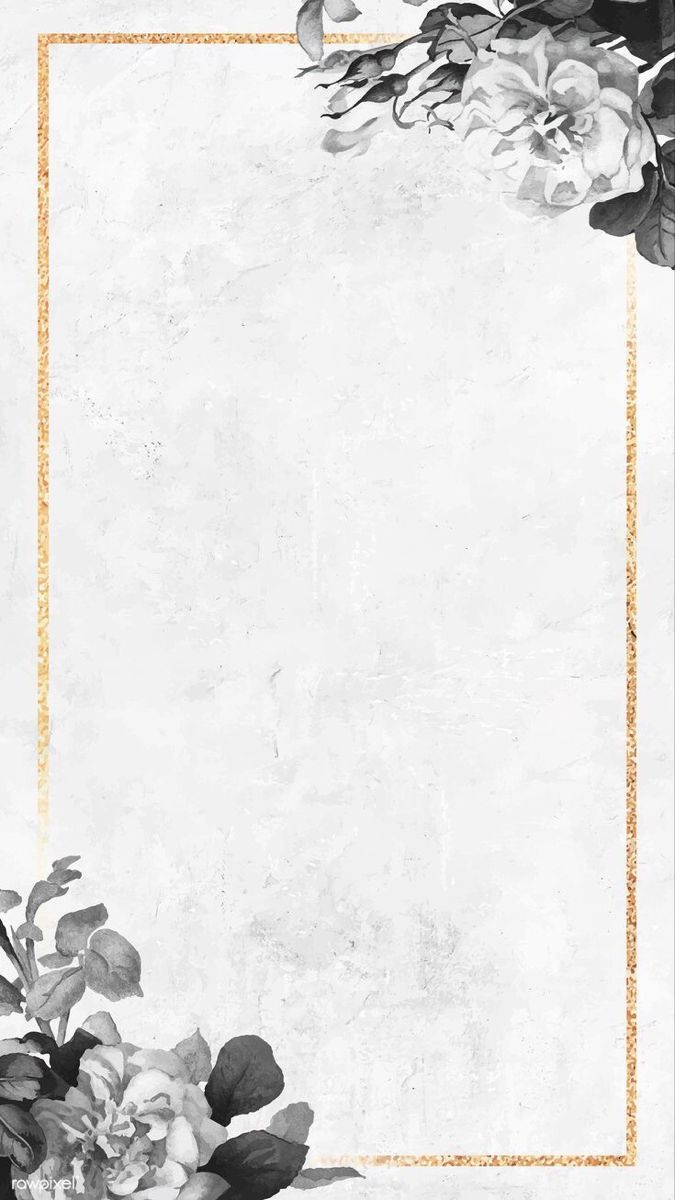
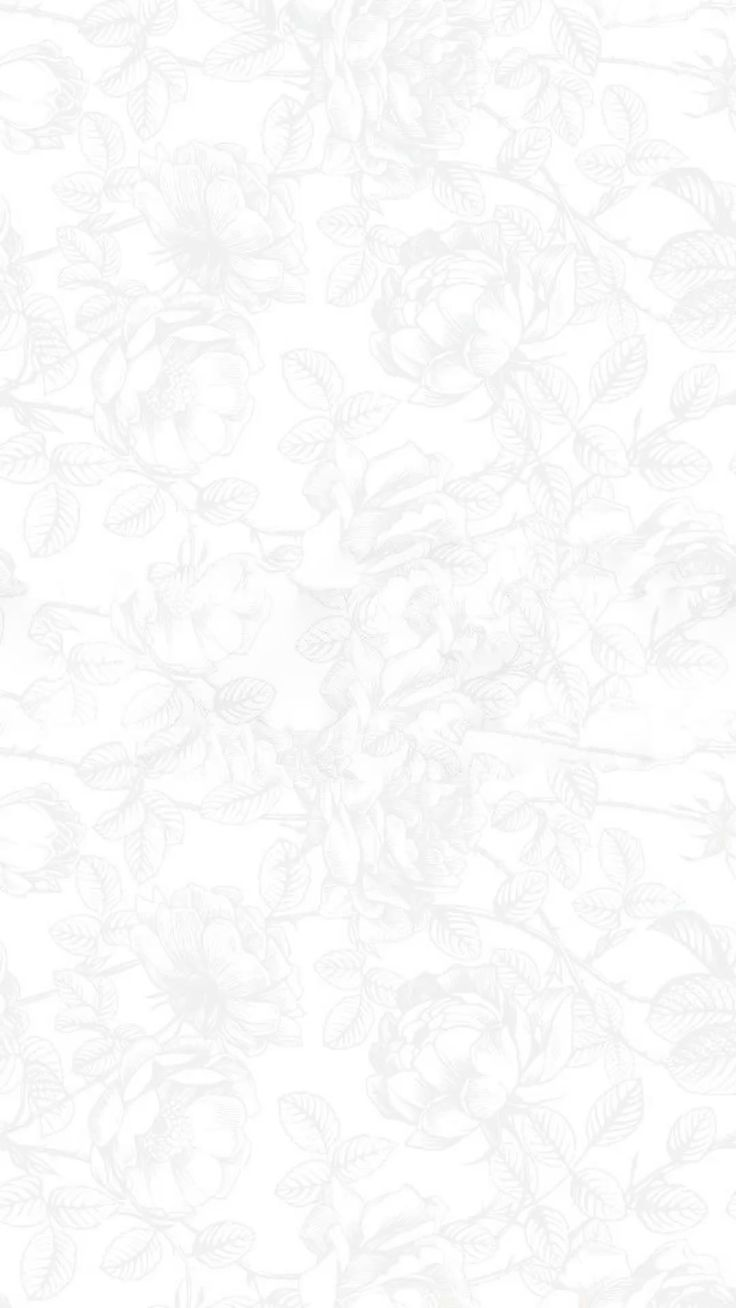
update

diff --git a/templates/basicblack/basicblack.html b/templates/basicblack/basicblack.html
@@ -117,7 +117,7 @@
 .subtitle-top {
     font-size: 0.75rem;
     letter-spacing: 3px;
-    color: #812121;
+    color: #d5c29d;
     text-transform: uppercase;
      text-align: center;
 }
@@ -125,7 +125,7 @@
 .main-title {
       font-family: 'Bilbo Swash Caps', cursive;
     font-size: 2.4rem;
-    color: #812121;
+    color: #d5c29d;
     margin: 10px 0 20px;
      text-align: center;
 }
@@ -482,7 +482,7 @@
     left: 0;
     width: 100%;
     height: 100%;
-    background-image: url("https://file.puredayinvitation.com/templates/basicred/cover.jpg");
+    background-image: url("https://file.puredayinvitation.com/templates/basicblack/cover.jpg");
     background-size: cover;
     background-position: center;
     transition: transform 1s cubic-bezier(0.77, 0, 0.175, 1);
@@ -552,7 +552,7 @@
 }
 
 .guest-label {
-    color: #5a1515;
+    color: #dcbd81;
     font-size: 1.1rem;
     font-family: Andada, serif;
     margin-top: 30px;
@@ -560,7 +560,7 @@
 
 .template-cover-guest-name {
      font-family: Andada, serif;
-    color: #5a1515;
+    color: #dcbd81;
     font-size: 0.9rem;
     letter-spacing: 2px;
     text-transform: uppercase;
@@ -572,21 +572,21 @@
 .template-cover-title {
    font-family: 'Rouge Script', cursive;
     font-size: 3.5rem;
-    color: #5a1515;
+    color: #dcbd81;
     margin: 10px 0;
     font-weight: 300;
     margin-top: 0px;
 }
 
 .event-date {
-    color: #5a1515;
+    color: #dcbd81;
     margin-top: 5px;
     font-family: Andada, serif;
 }
 
 /* --- TOMBOL OPEN --- */
 .cover-open-btn {
-    background-color: #5a1515;
+    background-color: #dcbd81;
     color: #dee6ee;
     border: none;
     padding: 5px 30px;
@@ -601,7 +601,7 @@
 
 .cover-open-btn:hover {
     transform: translateY(-3px) scale(1.05);
-    background-color: #812121;
+    background-color: #d5c29d;
 }
 
 
@@ -650,7 +650,7 @@ body::before {
     width: 100%;
     height: 100%;
     max-width: 450px; /* Lebar maksimal mengikuti layout undangan */
-    background-image: url("https://file.puredayinvitation.com/templates/basicred/bg.jpg") !important;
+    background-image: url("https://file.puredayinvitation.com/templates/basicblack/bg.jpg") !important;
     background-attachment: scroll; /* Tetap scroll karena container-nya sudah fixed */
     background-position: center;
     background-repeat: no-repeat;
@@ -782,7 +782,7 @@ body {
 
 .wedding-title {
      font-family: Andada, serif;
-     color: #5a1515;
+     color: #dcbd81;
       font-size: 0.7rem;
     letter-spacing: 2px;
     text-transform: uppercase;
@@ -795,7 +795,7 @@ body {
     line-height: 1.2;    /* Mengatur kerapatan baris agar tidak terlalu renggang */
  font-size: 3rem;
     font-family: 'Rouge Script', cursive;
-    color: #5a1515;
+    color: #dcbd81;
 }
 
 
@@ -872,11 +872,11 @@ body {
 
 /* Kontainer Utama (Bentuk Arch Atas-Bawah) */
 .content-detail-wrapper {
-   background-image: url("https://file.puredayinvitation.com/templates/basicred/bg3.jpg");
+   background-image: url("https://file.puredayinvitation.com/templates/basicblack/bg3.jpg");
     width: 92%; /* Memberi sedikit jarak di layar mobile */
     max-width: 420px; 
     padding: 100px 25px; /* Kurangi padding samping jika foto terasa terlalu kecil */
-    border: 1.5px solid #5a1515;
+    border: 1.5px solid #dcbd81;
     border-radius: 300px; /* Tetap melengkung atas dan bawah */
     margin: 0 auto;
     box-sizing: border-box;
@@ -893,7 +893,7 @@ body {
     aspect-ratio: 2 / 3; 
     
     margin: 0 auto 20px;
-    border: 2px solid #5a1515;
+    border: 2px solid #dcbd81;
     border-radius: 150px; /* Membuat bentuk oval sempurna */
     overflow: hidden;
     position: relative;
@@ -930,7 +930,7 @@ body {
 .card-name {
     font-family: 'Rouge Script', cursive;
     font-size: 2.2rem;
-    color: #5a1515;
+    color: #dcbd81;
     margin: 10px 0;
     font-weight: 400;
 }
@@ -957,7 +957,7 @@ body {
 .ampersand-text {
     font-family: 'Rouge Script', cursive;
     font-size: 48px;
-    color: #5a1515;
+    color: #dcbd81;
     font-style: italic;
 }
 
@@ -974,7 +974,7 @@ body {
     display: block;
     margin-top: 8px;
     font-weight: bold;
-    color: #5a1515;
+    color: #dcbd81;
      text-align: center;
 }
 
@@ -999,7 +999,7 @@ body {
     min-height: 100vh;
     /* KUNCI TENGAH: margin auto kiri dan kanan */
     margin: 0 auto; 
-     background-image: url("https://file.puredayinvitation.com/templates/basicred/bg2.jpg");
+     background-image: url("https://file.puredayinvitation.com/templates/basicblack/bg2.jpg");
     box-shadow: 0 0 30px rgba(0,0,0,0.1);
     overflow: hidden;
     padding: 80px 20px;
@@ -1029,7 +1029,7 @@ body {
     width: 75px;
     height: 75px;
     background: rgba(255, 255, 255, 0.2); /* Memberikan sedikit kontras transparan */
-    border: 1px dashed #812121;
+    border: 1px dashed #d5c29d;
     border-radius: 50%; 
     display: flex;
     flex-direction: column;
@@ -1047,7 +1047,7 @@ body {
     font-size: 1.4rem; /* Sedikit lebih besar agar mudah dibaca */
     font-weight: bold;
     margin: 0;
-    color: #812121; /* Putih agar kontras dengan background krem emas */
+    color: #d5c29d; /* Putih agar kontras dengan background krem emas */
     line-height: 1;
 }
 
@@ -1055,7 +1055,7 @@ body {
     font-family: Andada, serif;
     font-size: 0.75rem;
     margin: 0;
-    color: #812121;
+    color: #d5c29d;
     text-transform: uppercase;
     letter-spacing: 1px;
 }
@@ -1066,7 +1066,7 @@ body {
 /* --- Container Utama --- */
 /* --- Perbaikan Container Utama --- */
 .section-event {
-    background-color: #81212101;
+    background-color: #d5c29d01;
     padding: 80px 0;
     text-align: center;
     color: #ffffff;
@@ -1097,8 +1097,8 @@ body {
       margin-left: auto;
     margin-right: auto;
 
- background-image: url("https://file.puredayinvitation.com/templates/basicred/bg3.jpg");
-    border: 2px solid #5a1515;
+ background-image: url("https://file.puredayinvitation.com/templates/basicblack/bg3.jpg");
+    border: 2px solid #dcbd81;
     border-radius: 300px;
     overflow: hidden;
     padding: 12px;
@@ -1153,7 +1153,7 @@ body {
 /* --- TOMBOL MAPS --- */
 .btn-maps-link {
     font-family: Andada, serif;
-    background-color: #5a1515;
+    background-color: #dcbd81;
     color: #dee6ee;
     text-decoration: none;
     padding: 10px 25px;
@@ -1164,7 +1164,7 @@ body {
 }
 
 .btn-maps-link:hover {
-    background-color: #812121;
+    background-color: #d5c29d;
     color: #dee6ee;
 }
 
@@ -1360,7 +1360,7 @@ body {
 /* --- Container Galeri --- */
 .section-gallery {
     padding: 60px 15px;
-   background-image: url("https://file.puredayinvitation.com/templates/basicred/bg2.jpg");
+   background-image: url("https://file.puredayinvitation.com/templates/basicblack/bg2.jpg");
     background-size: cover;
     min-height: 80vh;
 }
@@ -1439,7 +1439,7 @@ max-width: 450px;
     /* Tambahkan ini untuk menurunkan elemen */
     margin-top: 50px; /* Ubah angka px sesuai keinginan Anda */
           margin-bottom: 50px;
-    background-image: url("https://file.puredayinvitation.com/templates/basicred/bg3.jpg");
+    background-image: url("https://file.puredayinvitation.com/templates/basicblack/bg3.jpg");
     border: 2px solid #e0969e;
     border-radius: 20px; 
     overflow: hidden;
@@ -1704,7 +1704,7 @@ max-width: 450px;
     margin-right: 0;
     background-size: cover;
     /* PENTING: Hapus background-image dari sini agar tidak double */
-  background-image: url("https://file.puredayinvitation.com/templates/basicred/bg2.jpg");
+  background-image: url("https://file.puredayinvitation.com/templates/basicblack/bg2.jpg");
     
     box-shadow: -10px 0 30px rgba(0,0,0,0.05);
     overflow: hidden;
@@ -1781,7 +1781,7 @@ max-width: 450px;
     padding: 10px;
     border: none;
     border-radius: 8px;
-    background: #812121;
+    background: #d5c29d;
     color: rgb(255, 255, 255);
     cursor: pointer;
     font-size: 0.85rem;
@@ -1791,7 +1791,7 @@ max-width: 450px;
 }
 
 .template-status-btn.status-active {
-    background: #5a1515; /* Warna coklat tema */
+    background: #dcbd81; /* Warna coklat tema */
     color: rgb(255, 255, 255);
     font-family: Andada, serif;
     
@@ -1802,7 +1802,7 @@ max-width: 450px;
 .btn-submit {
     width: 100%;
     padding: 15px;
-    background-color: #5a1515; /* Sesuai gambar referensi */
+    background-color: #dcbd81; /* Sesuai gambar referensi */
     color: #dee6ee;
     border: none;
     font-family: Andada, serif;
@@ -1821,7 +1821,7 @@ max-width: 450px;
 }
 
 .btn-submit:hover {
-    background-color: #812121;
+    background-color: #d5c29d;
     transform: translateY(-2px);
 }
 
@@ -1859,7 +1859,7 @@ max-width: 450px;
     margin-left: auto;
     margin-right: 0;
      background-size: cover;
-background-image: url("https://file.puredayinvitation.com/templates/basicred/bg2.jpg");
+background-image: url("https://file.puredayinvitation.com/templates/basicblack/bg2.jpg");
     overflow: hidden; 
     padding: 80px 20px 0 20px;
     box-sizing: border-box;
@@ -2763,8 +2763,8 @@ function updateMusicIcon(isPlaying) {
         }
         
         // Warna merah (aktif) jika sedang play
-        floatingMusicToggle.style.color = isPlaying ? '#5a1515' : '#5a1515';
-        floatingMusicToggle.style.borderColor = isPlaying ? '#5a1515' : '#5a1515';
+        floatingMusicToggle.style.color = isPlaying ? '#dcbd81' : '#dcbd81';
+        floatingMusicToggle.style.borderColor = isPlaying ? '#dcbd81' : '#dcbd81';
     }
 }
 